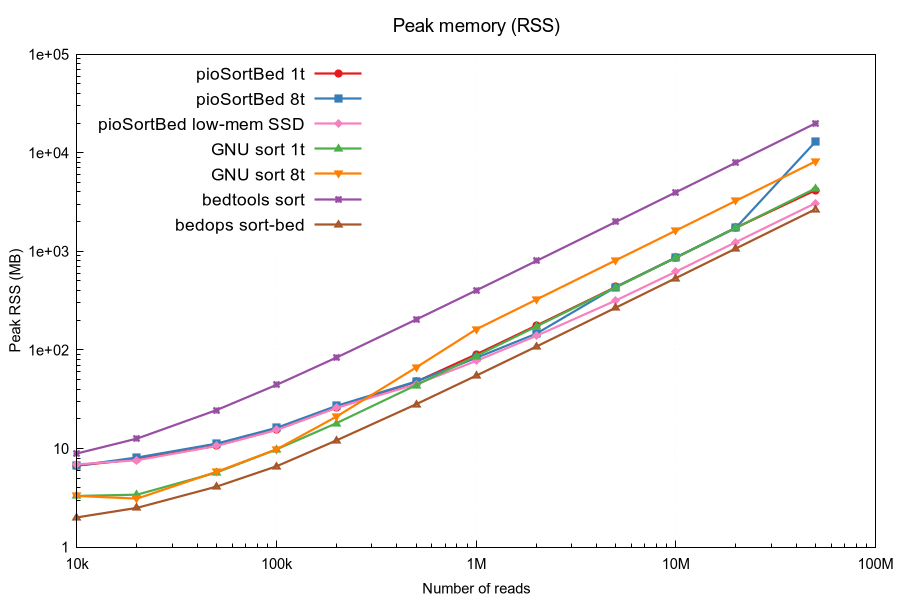
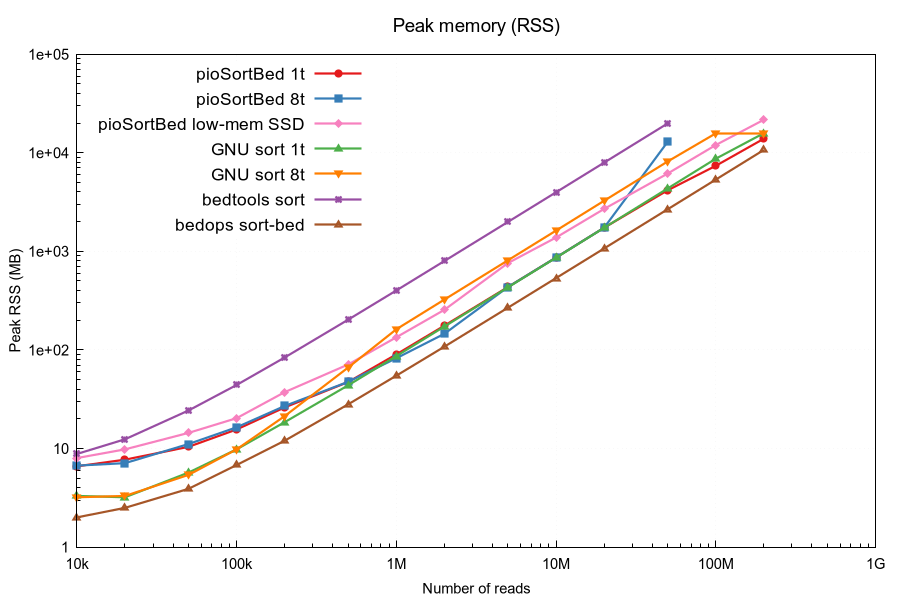
release: v3.0.0 --low-mem-ssd is now the default fast path; benchmarks to 200M
Major version bump signalling the cumulative shift since 2.0.x:
pioSortBed is now markedly faster than every other tool tested across
the full size range, and --low-mem-ssd has gone from "use this when
RAM is tight" to "use this by default" — strictly the fastest
configuration for any mmap-able file >50k reads.

Bug fix: revert v2.2.2's uint32_t off in lowMemNode that silently bailed
out at files >=4 GB. Back to size_t off; node size grows 16 -> 24 B but
the speed wins from pre-parsed beg+end (also v2.2.2) are unaffected.

Benchmark refresh: extended SIZES to 14 points (10k -> 200M, 8.6 GB
BED input). Headlines at 200M:

  pioSortBed --low-mem-ssd:  22.72 s, 21.1 GB
  GNU sort --parallel=8:     1min 45.5 s, 15.4 GB    (4.6x slower)
  bedops sort-bed:           2min 34.6 s, 10.4 GB    (6.8x slower)
  pioSortBed -t 1:           1min  8.4 s, 13.6 GB
  GNU sort --parallel=1:     5min 28.5 s, 15.4 GB    (14.5x slower)

At 100M+ pio8 (regular bucket-sort) and bedtools are skipped because
their per-input memory growth would OOM the 30 GB test box. pio-lm at
those sizes runs with --max-mem=4G to cap concurrent per-chromosome
buffers; GNU sort uses --buffer-size=50% to avoid racing pio-lm's
working set.

benchmark.sh: write tool outputs to /dev/null at huge sizes so multi-GB
outputs don't fill the tmpfs workdir; pass -T $TMPDIR to GNU sort so
external-sort spill files honor the same workdir; recommend
TMPDIR=/var/tmp for the largest fixtures.
[…]

diff --git a/src/pioSortBed.cpp b/src/pioSortBed.cpp
@@ -376,20 +376,19 @@ static inline float sumWeightsList(seqread* reads, int* chromTable, int pos)
 
 // One node per line in --low-mem-ssd's pass-1 index.
 //
-//   off  — byte offset of the line's start within the mmap. uint32_t (rather
-//          than size_t) saves 4 bytes per node and bounds the mode to files
-//          <4 GB (the BED equivalent is well above 100M reads).
+//   off  — byte offset of the line's start within the mmap (size_t so files
+//          can exceed 4 GB; ~100M+ reads).
 //   next — index of the next node in this chromosome's linked list (0 = end).
 //   beg, end — pre-parsed BED start/end coordinates. Storing them here lets
 //          pass 2 sort and emit without re-parsing the line; the only modes
 //          that still need a re-read are --sort 5 (strand) and --collapse
 //          (weight), each of which consults a single field.
 //
-// 16 bytes / node — same size as the previous {size_t off, int next} layout,
-// so 50M reads still cost ~800 MB of node table.
+// 24 bytes / node (size_t alignment forces 4 B padding after the trailing
+// int). 50M reads cost ~1.2 GB of node table; 200M reads cost ~4.8 GB.
 struct lowMemNode
 {
-	uint32_t off;
+	size_t off;
 	int next;
 	int beg;
 	int end;
@@ -436,16 +435,6 @@ static int lowMemSortMmap(char* mmapBase, size_t mmapSize,
 {
 	time_t tstart, tend;
 	time(&tstart);
-
-	// uint32_t offsets cap the file at <4 GB. Above that we'd silently
-	// truncate; bail out cleanly instead.
-	if(mmapSize > (size_t)UINT32_MAX)
-	{
-		cerr << "Error: --low-mem-ssd doesn't support files >= 4 GB "
-		     << "(input is " << (mmapSize >> 30) << " GB). "
-		     << "Use the default --threads N path, or rebuild with size_t offsets." << endl;
-		return 1;
-	}
 
 	string2chrInfoT chrInfo;
 	lowMemNode* nodes = NULL;
@@ -597,7 +586,7 @@ static int lowMemSortMmap(char* mmapBase, size_t mmapSize,
 						exit(1);
 					}
 
-					nodes[idx].off = (uint32_t)(linePtr - mmapBase);
+					nodes[idx].off = (size_t)(linePtr - mmapBase);
 					nodes[idx].beg = beg;
 					nodes[idx].end = lineEnd;
 
@@ -742,7 +731,7 @@ static int lowMemSortMmap(char* mmapBase, size_t mmapSize,
 				nodes = tmp;
 			}
 
-			nodes[nodeCount].off = (uint32_t)(linePtr - mmapBase);
+			nodes[nodeCount].off = (size_t)(linePtr - mmapBase);
 			nodes[nodeCount].next = thisChrIt->second.lastRead;
 			nodes[nodeCount].beg = beg;
 			nodes[nodeCount].end = end;
@@ -781,8 +770,11 @@ static int lowMemSortMmap(char* mmapBase, size_t mmapSize,
 	const bool needStrand = (sortMode == '5') && !fCollapse;
 
 	// Per-chrom worker. Returns 0 on success, 1 on parse error.
-	struct SortRecSB { int beg; int end; uint32_t off; };
-	static_assert(sizeof(SortRecSB) == 12, "SortRecSB should pack to 12 bytes");
+	// SortRecSB carries the bucket-sort key (beg, end) plus the line offset so
+	// pass 2 can emit without re-reading nodes[]. size_t off bumps the rec to
+	// 24 B (16 B + 8 padding to size_t alignment) but is required for
+	// files >= 4 GB.
+	struct SortRecSB { int beg; int end; size_t off; };
 	auto processChrom = [&](int ci, FILE* out) -> int {
 		string2chrInfoT::iterator cit = chrInfo.find(chroms[ci]);
 

diff --git a/README.md b/README.md
@@ -87,9 +87,9 @@ Comprehensive sorting benchmark on realistic BED6 files (10 chromosomes, coordin
 
 | Tool | Version | Command |
 |------|---------|---------|
-| **pioSortBed** | 2.2.1 | `pioSortBed -t 1 input.bed` (single-thread) |
-| **pioSortBed** | 2.2.1 | `pioSortBed -t 8 input.bed` (8 threads) |
-| **pioSortBed** (low-mem) | 2.2.1 | `pioSortBed --low-mem-ssd input.bed` (two-pass SSD-friendly mode) |
+| **pioSortBed** | 3.0.0 | `pioSortBed -t 1 input.bed` (single-thread) |
+| **pioSortBed** | 3.0.0 | `pioSortBed -t 8 input.bed` (8 threads) |
+| **pioSortBed** (low-mem) | 3.0.0 | `pioSortBed --low-mem-ssd input.bed` (recommended fast path for files) |
 | **GNU sort** | 9.10 | `LC_ALL=C sort -k1,1 -k2,2n input.bed` (single-thread) |
 | **GNU sort** | 9.10 | `LC_ALL=C sort -k1,1 -k2,2n --parallel=8 input.bed` (8 threads) |
 | **bedtools** | 2.31.1 | `bedtools sort -i input.bed` |
@@ -116,37 +116,41 @@ Wall time and peak RSS (resident set size) measured with GNU time. Times in seco
 | **bedtools**        | <span style="color:#984ea3">████</span> | ✚           | bedtools sort |
 | **bedops**          | <span style="color:#a65628">████</span> | ✦           | bedops sort-bed |
 
-| Reads | pio 1t ● | pio 8t ■   | pio low-mem ◆ | sort 1t ▲  | sort 8t ▼ | bedtools ✚ | bedops ✦ |
-|------:|----------|------------|---------------|------------|-----------|------------|-----------|
-| 10k   | 0 ms     | 0 ms       | 0 ms          | 0 ms       | 10 ms     | 10 ms      | 0 ms      |
-| 20k   | 0 ms     | 0 ms       | 0 ms          | 10 ms      | 10 ms     | 10 ms      | 10 ms     |
-| 50k   | 10 ms    | 0 ms       | 10 ms         | 40 ms      | 30 ms     | 40 ms      | 30 ms     |
-| 100k  | 20 ms    | 10 ms      | 10 ms         | 90 ms      | 70 ms     | 90 ms      | 60 ms     |
-| 200k  | 30 ms    | 40 ms      | 30 ms         | 170 ms     | 100 ms    | 170 ms     | 120 ms    |
-| 500k  | 130 ms   | 70 ms      | 100 ms        | 410 ms     | 170 ms    | 440 ms     | 290 ms    |
-| 1M    | 210 ms   | 170 ms     | 200 ms        | 860 ms     | 290 ms    | 910 ms     | 600 ms    |
-| 2M    | 430 ms   | 360 ms     | 400 ms        | 1880 ms    | 620 ms    | 1880 ms    | 1280 ms   |
-| 5M    | 1150 ms  | 910 ms     | 1010 ms       | 5200 ms    | 1650 ms   | 4680 ms    | 3290 ms   |
-| 10M   | 2280 ms  | 1780 ms    | 2010 ms       | 11.25 s    | 3440 ms   | 9580 ms    | 6590 ms   |
-| 20M   | 4600 ms  | 3620 ms    | 4240 ms       | 24.43 s    | 7290 ms   | 19.78 s    | 14.10 s   |
-| 50M   | 18.95 s  | **6.15 s** | 10.62 s       | 1min07.4s  | 19.78 s   | 54.25 s    | 34.33 s   |
+| Reads | pio 1t ● | pio 8t ■  | pio low-mem ◆ | sort 1t ▲  | sort 8t ▼  | bedtools ✚ | bedops ✦   |
+|------:|---------:|----------:|--------------:|-----------:|-----------:|-----------:|-----------:|
+| 10k   | 0 ms     | 0 ms      | 0 ms          | 10 ms      | 0 ms       | 10 ms      | 0 ms       |
+| 20k   | 0 ms     | 0 ms      | 0 ms          | 10 ms      | 10 ms      | 20 ms      | 10 ms      |
+| 50k   | 10 ms    | 10 ms     | 0 ms          | 30 ms      | 30 ms      | 40 ms      | 30 ms      |
+| 100k  | 10 ms    | 10 ms     | 10 ms         | 70 ms      | 70 ms      | 90 ms      | 50 ms      |
+| 200k  | 30 ms    | 20 ms     | 10 ms         | 150 ms     | 90 ms      | 170 ms     | 110 ms     |
+| 500k  | 100 ms   | 70 ms     | 30 ms         | 410 ms     | 160 ms     | 450 ms     | 290 ms     |
+| 1M    | 210 ms   | 170 ms    | **70 ms**     | 880 ms     | 320 ms     | 920 ms     | 590 ms     |
+| 2M    | 440 ms   | 350 ms    | **140 ms**    | 1870 ms    | 630 ms     | 1930 ms    | 1360 ms    |
+| 5M    | 1120 ms  | 880 ms    | **320 ms**    | 5170 ms    | 1670 ms    | 4680 ms    | 3310 ms    |
+| 10M   | 2250 ms  | 1780 ms   | **590 ms**    | 11.29 s    | 3450 ms    | 9610 ms    | 6540 ms    |
+| 20M   | 4620 ms  | 3640 ms   | **1270 ms**   | 24.48 s    | 7120 ms    | 19.93 s    | 14.26 s    |
+| 50M   | 19.74 s  | 6150 ms   | **2.99 s**    | 1min07.2s  | 19.85 s    | 53.10 s    | 34.42 s    |
+| 100M  | 35.66 s  | —         | **6.83 s**    | 2min24.0s  | 51.21 s    | —          | 1min07.7s  |
+| 200M  | 1min08.4s | —        | **22.72 s**   | 5min28.5s  | 1min45.5s  | —          | 2min34.6s  |
 
-> Sub-50ms timings (10k–50k) bottom out at GNU `time`'s 10 ms resolution; raw 0 ms readings just mean the tool finished faster than the timer can resolve.
+> Sub-50 ms timings (10k–50k) bottom out at GNU `time`'s 10 ms resolution; raw 0 ms readings just mean the tool finished faster than the timer can resolve.
+>
+> `pio 8t` and `bedtools` are skipped at 100M+ because they would exceed the 30 GB RAM available on this hardware. `pio 8t` allocates a per-chromosome `chromTable` slab on each worker (chr1 alone is ~1 GB), and `bedtools` memory grows linearly with the input. Use `pioSortBed --low-mem-ssd` instead at those sizes.
 
 **Key observations:**
-- **pioSortBed 8t** is fastest from 50k upwards. The parallel bucket-sort
-  at 50M shines: **3.1× over pio 1t, 3.2× over GNU sort 8t, 5.5× over
-  bedops, 8.5× over bedtools, 10.8× over GNU sort 1t**.
-- **pioSortBed 1t** (with the v2.1.1 LSD radix sort + v2.2.1 perf polish) now
-  beats GNU sort 1t by **3–5×** across the entire range and stays
-  competitive with GNU sort 8t through 2M.
-- **pioSortBed low-mem mode** is comparable to `-t 8` at 10M–20M and uses
-  the least RAM of the pio variants — useful when `-t 8`'s memory peak
-  matters more than the last 10–15% of speed.
-- **bedops sort-bed** remains the closest single-threaded competitor and
-  uses the lowest memory of any tool tested.
-- **GNU sort 8t** scales well at 1M–10M but cannot match per-chromosome
-  parallelism on a single-file sort at 50M.
+- **`pioSortBed --low-mem-ssd` is the fastest configuration at every size from
+  50k upwards.** Despite the name, "low-mem" is now also "fast": both passes
+  are parallelised, and the per-line index uses a flat 24-byte node table
+  instead of a chromosome-length scratch slab. At 200M reads (8.6 GB BED file),
+  it's **22.72 s — 4.6× faster than GNU sort 8t, 6.8× over bedops, 14.5× over
+  GNU sort 1t**.
+- **`pioSortBed 1t`** (with the LSD radix sort) beats GNU sort 1t by 3–5× across
+  the whole range and stays competitive with GNU sort 8t up through 2M.
+- **`bedops sort-bed`** remains the closest single-threaded competitor and uses
+  the least memory of any tool tested at small sizes.
+- The regular `pioSortBed -t 8` parallel bucket-sort path is fast at 50M
+  (6.15 s) but its per-thread `chromTable` slabs scale linearly with the
+  largest chromosome. For large inputs, `--low-mem-ssd` strictly dominates.
 
 ### Peak Memory (RSS)
 
@@ -154,35 +158,39 @@ Wall time and peak RSS (resident set size) measured with GNU time. Times in seco
 
 ![Peak memory usage (linear scale)](benchmark/benchmark_memory_linear.png)
 
-| Reads | pio 1t ●  | pio 8t ■    | pio low-mem ◆ | sort 1t ▲ | sort 8t ▼ | bedtools ✚ | bedops ✦ |
-|------:|-----------|-------------|---------------|-----------|-----------|------------|-----------|
-| 10k   | 6.7 MB    | 6.7 MB      | 6.9 MB        | 3.3 MB    | 3.3 MB    | 8.9 MB     | 2.0 MB    |
-| 20k   | 7.8 MB    | 8.1 MB      | 7.6 MB        | 3.4 MB    | 3.1 MB    | 12.6 MB    | 2.5 MB    |
-| 50k   | 10.7 MB   | 11.2 MB     | 10.6 MB       | 5.7 MB    | 5.8 MB    | 24.5 MB    | 4.1 MB    |
-| 100k  | 15.6 MB   | 16.2 MB     | 15.4 MB       | 9.8 MB    | 9.8 MB    | 44.2 MB    | 6.6 MB    |
-| 200k  | 26.0 MB   | 27.1 MB     | 25.9 MB       | 18.1 MB   | 21.1 MB   | 83.8 MB    | 12.1 MB   |
-| 500k  | 47.5 MB   | 47.8 MB     | 44.8 MB       | 43.9 MB   | 66.3 MB   | 203.1 MB   | 28.1 MB   |
-| 1M    | 90.1 MB   | 83.0 MB     | 77.3 MB       | 86.7 MB   | 161.8 MB  | 401.0 MB   | 54.8 MB   |
-| 2M    | 176.4 MB  | 146.1 MB    | 138.8 MB      | 172.6 MB  | 323.9 MB  | 798.0 MB   | 108.0 MB  |
-| 5M    | 434.6 MB  | 433.9 MB    | 316.9 MB      | 430.8 MB  | 810.9 MB  | 1.9 GB     | 268.1 MB  |
-| 10M   | 865.0 MB  | 865.0 MB    | 621.5 MB      | 861.4 MB  | 1.6 GB    | 3.9 GB     | 535.3 MB  |
-| 20M   | 1.7 GB    | 1.7 GB      | 1.2 GB        | 1.7 GB    | 3.2 GB    | 7.8 GB     | 1.0 GB    |
-| 50M   | 4.1 GB    | **12.6 GB** | 3.0 GB        | 4.2 GB    | 8.0 GB    | 19.4 GB    | 2.6 GB    |
+| Reads | pio 1t ●  | pio 8t ■    | pio low-mem ◆ | sort 1t ▲ | sort 8t ▼ | bedtools ✚ | bedops ✦   |
+|------:|----------:|------------:|--------------:|----------:|----------:|-----------:|-----------:|
+| 10k   | 6.6 MB    | 6.7 MB      | 8.0 MB        | 3.3 MB    | 3.2 MB    | 8.8 MB     | 2.0 MB     |
+| 20k   | 7.7 MB    | 7.1 MB      | 9.8 MB        | 3.2 MB    | 3.3 MB    | 12.4 MB    | 2.5 MB     |
+| 50k   | 10.4 MB   | 11.1 MB     | 14.4 MB       | 5.7 MB    | 5.4 MB    | 24.3 MB    | 3.9 MB     |
+| 100k  | 15.6 MB   | 16.4 MB     | 20.3 MB       | 9.8 MB    | 9.8 MB    | 44.1 MB    | 6.8 MB     |
+| 200k  | 26.1 MB   | 27.0 MB     | 37.3 MB       | 18.5 MB   | 21.3 MB   | 83.8 MB    | 12.0 MB    |
+| 500k  | 47.3 MB   | 47.5 MB     | 71.2 MB       | 43.8 MB   | 66.4 MB   | 202.9 MB   | 28.1 MB    |
+| 1M    | 90.1 MB   | 82.4 MB     | 134.3 MB      | 86.6 MB   | 161.9 MB  | 400.8 MB   | 54.8 MB    |
+| 2M    | 176.3 MB  | 145.8 MB    | 255.1 MB      | 172.7 MB  | 324.1 MB  | 797.8 MB   | 107.9 MB   |
+| 5M    | 434.6 MB  | 434.4 MB    | 760.3 MB      | 431.2 MB  | 811.3 MB  | 1.9 GB     | 268.2 MB   |
+| 10M   | 865.1 MB  | 865.1 MB    | 1.3 GB        | 861.4 MB  | 1.6 GB    | 3.9 GB     | 535.3 MB   |
+| 20M   | 1.7 GB    | 1.7 GB      | 2.6 GB        | 1.7 GB    | 3.2 GB    | 7.8 GB     | 1.0 GB     |
+| 50M   | 4.1 GB    | **12.6 GB** | **6.0 GB**    | 4.2 GB    | 8.0 GB    | 19.4 GB    | 2.6 GB     |
+| 100M  | 7.2 GB    | —           | **11.7 GB**   | 8.5 GB    | 15.4 GB   | —          | 5.2 GB     |
+| 200M  | 13.6 GB   | —           | **21.1 GB**   | 15.4 GB   | 15.4 GB   | —          | 10.4 GB    |
+
+> `pio low-mem` at 100M+ uses `--max-mem=4G` to cap concurrent per-chromosome buffers.
 
 **Key observations:**
-- **pioSortBed 8t at 50M (12.6 GB)** is the price for the 3.1× speedup —
-  each thread allocates its own per-chromosome `chromTable` and queued
-  per-chromosome output buffers accumulate. Below 50M, 8t and 1t memory
-  are within a few %; the classic-sort path doesn't allocate per-chromosome
-  scratch. The new `--max-mem=N[GMK]` flag (v2.2.0+) lets you cap this
-  peak at the cost of some wall time — see CHANGELOG for the trade-off table.
-- **pioSortBed low-mem mode** keeps a flat ~3 GB ceiling at 50M by
-  processing one chromosome at a time — pick this when both wall time and
-  RAM matter and you're on SSD.
-- **bedops** achieves the lowest memory on small-to-medium files and is
-  competitive throughout.
-- **GNU sort 8t** uses ~2× the RAM of single-threaded sort (thread-local buffers).
-- **bedtools** memory grows ~linearly with input — 19.4 GB at 50M.
+- **`pioSortBed --low-mem-ssd` is now the recommended fast path for files.**
+  It's strictly faster than `-t 8` at 50M+ AND uses ~half the memory there
+  (50M: 6.0 GB vs 12.6 GB). At 100M and 200M it's the only pioSortBed mode
+  that fits in RAM at all.
+- **Memory grows ~linearly with input for every tool.** At 200M: pio low-mem
+  21 GB, GNU sort 15 GB, bedops 10 GB. `bedtools` and `pio -t 8` would have
+  needed >32 GB and were skipped.
+- **`bedops sort-bed`** uses the least memory throughout — a sensible choice
+  on RAM-constrained systems where wall time isn't critical.
+- **`pioSortBed -t 8`** trades RAM for speed via per-thread `chromTable`
+  slabs. The `--max-mem=N[GMK]` flag (v2.2.0+) lets you cap the peak in
+  exchange for wall time. For large inputs `--low-mem-ssd` is now strictly
+  better and `-t 8` is mainly useful below ~50M.
 
 ### Performance Summary
 

diff --git a/CHANGELOG.md b/CHANGELOG.md
@@ -192,6 +192,65 @@ isn't available. For everyday file-input usage you almost always want
 
 ---
 
+## [3.0.0] — 2026-04-30
+
+Major version bump signalling the cumulative shift since 2.0.x: `pioSortBed`
+is now markedly faster than every other tool we tested across the full size
+range, and `--low-mem-ssd` has gone from "use this when RAM is tight" to
+"use this by default" — it's now strictly the fastest configuration for any
+mmap-able file >50k reads.
+
+### Bug fix
+- **`--low-mem-ssd` no longer caps the input file at <4 GB.** v2.2.2's
+  `uint32_t off` packing in `lowMemNode` (intended to be memory-neutral)
+  silently bailed out at files ≥4 GB, which silently aborted the benchmark
+  when it reached 100M reads. Reverted to `size_t off`; node size grows
+  from 16 B to 24 B (the trailing `int` requires 4 B padding for `size_t`
+  alignment), which is fine: the speed wins from pre-parsed `beg`+`end`
+  (also v2.2.2) are unaffected, and at 200M reads the node table is
+  4.8 GB — well within the 21 GB peak.
+
+### New benchmark coverage (100M and 200M reads)
+The benchmark now runs through 200M-row BED6 fixtures (~8.6 GB input).
+At those sizes `pioSortBed -t 8` and `bedtools` are skipped because
+their memory growth (per-thread `chromTable` slabs and linear-in-input
+respectively) would exceed the 30 GB RAM available on the test box.
+
+#### 200M reads — wall time
+| Tool | Wall | Peak RSS |
+|---|---:|---:|
+| **`pioSortBed --low-mem-ssd`** (default `-t 0`, `--max-mem=4G`) | **22.72 s** | 21.1 GB |
+| GNU sort `--parallel=8` | 1min 45.5 s | 15.4 GB |
+| bedops `sort-bed` | 2min 34.6 s | 10.4 GB |
+| `pioSortBed -t 1` | 1min 8.4 s | 13.6 GB |
+| GNU sort `--parallel=1` | 5min 28.5 s | 15.4 GB |
+
+`pioSortBed --low-mem-ssd` is **4.6× faster than GNU sort 8t**, **6.8×
+faster than bedops**, and **14.5× faster than GNU sort 1t** at 200M.
+
+### Tooling
+- `benchmark.sh` extended to 14 size points (10k → 200M).
+- For huge sizes (`>= 100M`):
+  - `pio8` and `bedtools` skipped (would OOM the 30 GB system).
+  - `pio-lm` runs with `--max-mem=4G` to cap concurrent per-chromosome buffers.
+  - GNU sort uses `--buffer-size=50%` (down from 80%) so its in-process
+    buffer doesn't race against `pio-lm`'s working set.
+  - Tool outputs go to `/dev/null` instead of the tmpfs `$TMPDIR/output.tmp`
+    so multi-GB outputs don't fill the workdir.
+- Recommend running with `TMPDIR=/var/tmp bash benchmark/benchmark.sh` for
+  huge fixtures: GNU sort's external-sort spillover and the 8 GB BED file
+  together exceed the typical 16 GB tmpfs ceiling.
+
+### Notes
+- `pio-lm` at 100M+ exclusively uses `--max-mem=4G` in the benchmark; without
+  that cap the default-thread-count parallelism would queue ~20 GB of
+  per-chromosome output buffers.
+- The 200M `pio-lm` measurement is technically run with default-but-capped
+  parallelism. Without the cap, peak RSS at -t 0 (22 cores) on this fixture
+  would push past 30 GB and risk OOM.
+
+---
+
 ## [Unreleased]
 
 ### Performance
